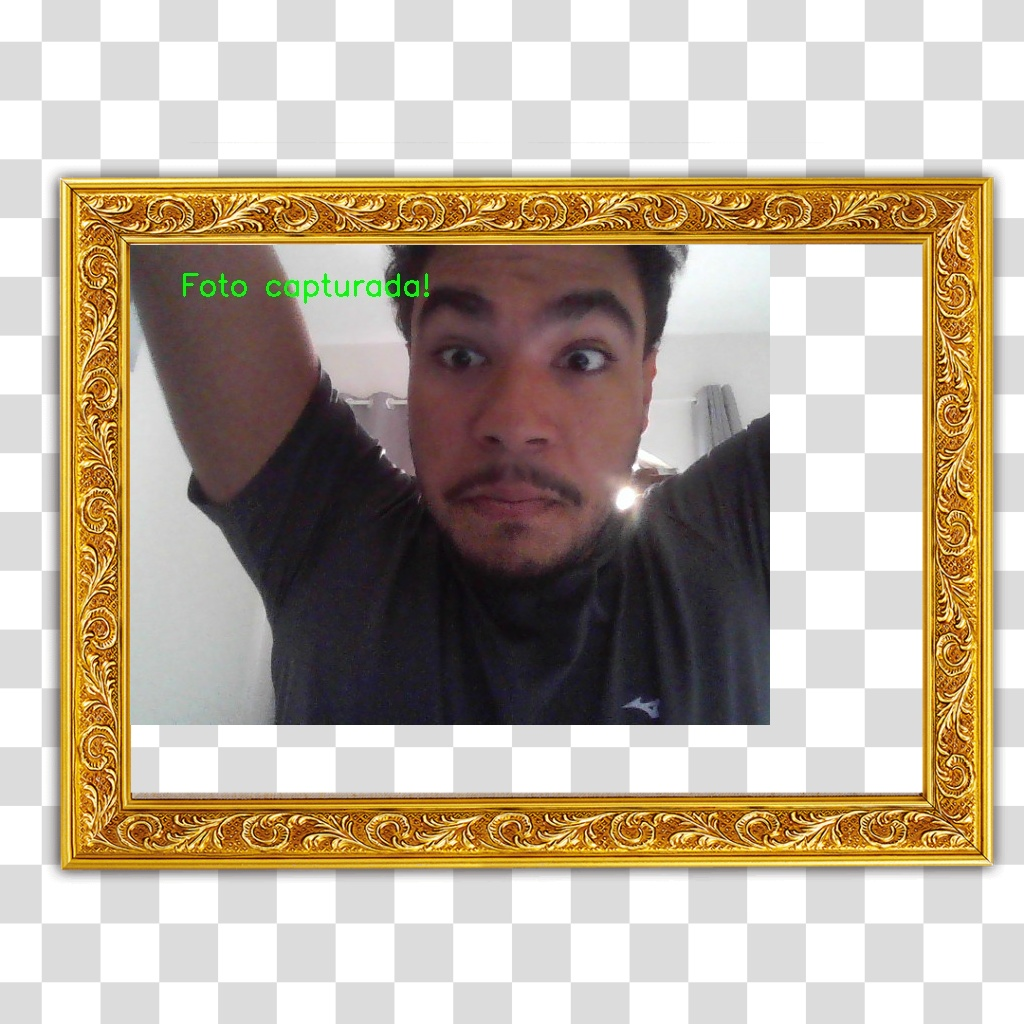
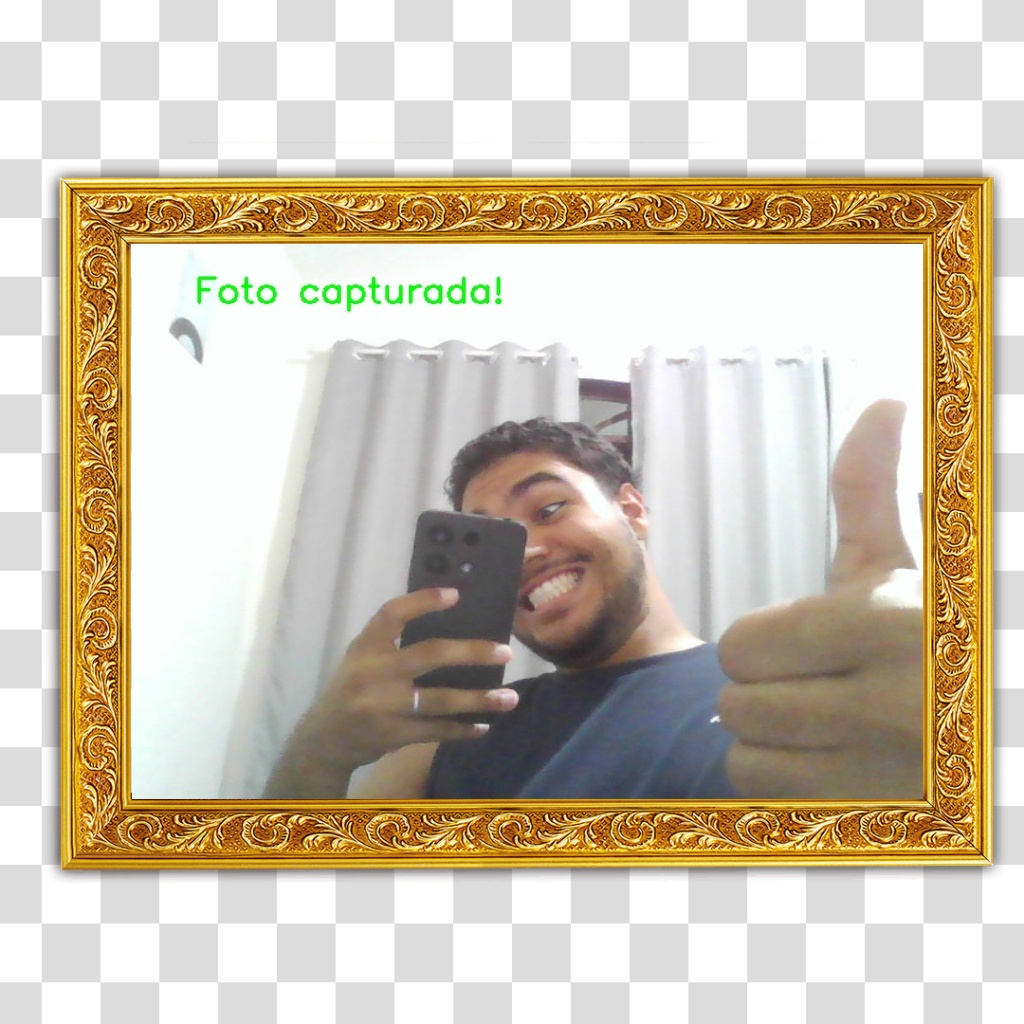
90%

diff --git a/final_project/pacote/moldura.py b/final_project/pacote/moldura.py
@@ -1,24 +1,20 @@
 import cv2
 import numpy as np
 
-def adicionar_moldura(imagem, moldura_path, output_path='foto_com_moldura.png'):
-    # Lê a moldura (com transparência caso PNG)
-    moldura = cv2.imread(moldura_path, cv2.IMREAD_UNCHANGED)
-    if moldura is None:
-        print("Não foi possível carregar a moldura.")
-        return
+def adicionar_moldura(redimensionada):
+    # Carrega a imagem de fundo (moldura) e a foto a ser inserida
+    fundo = cv2.imread('moldura.png')
 
-    # Redimensiona a moldura para o tamanho da imagem capturada
-    altura, largura = imagem.shape[:2]
-    moldura = cv2.resize(moldura, (largura, altura))
+    # Posição desejada (exemplo: x=130, y=245)
+    x, y = 132, 244
 
-    resultado = cv2.imread('moldura.png')
+    # Dimensões da foto redimensionada
+    h, w = redimensionada.shape[:2]
 
-    cv2.imwrite(output_path, resultado)
-    print(f"Foto com moldura salva como {output_path}")
+    # Insere a foto na posição (x, y) da moldura
+    fundo[y:y+h, x:x+w] = redimensionada
 
-    cv2.imshow('Foto com Moldura', resultado) # Exibe a imagem com moldura
+    cv2.imwrite('foto_salva.jpg', fundo)
+    cv2.imshow('Resultado', fundo)
     cv2.waitKey(0)
     cv2.destroyAllWindows()
-
-    return resultado

diff --git a/final_project/main.py b/final_project/main.py
@@ -7,16 +7,23 @@
 from pacote import camera
 from pacote import captura
 from pacote import moldura
+from pacote import redimensionar
 
 def main():
-
-    cap = camera.inicializar_camera() # Inicializa a câmera
+    cap = camera.inicializar_camera()  # Inicializa a câmera
     if cap:
-        imagem = captura.capturar_imagem(cap, 5, 'captura.jpg') # Captura uma imagem após 5 segundos
-        cap.release() # Libera a câmera após o uso
+        imagem = captura.capturar(cap, 5, 'captura.jpg')  # Captura uma imagem após 5 segundos
+        cap.release()  # Libera a câmera após o uso
 
-    if imagem is not None:
-        moldura.adicionar_moldura(imagem, 'moldura.png', output_path='foto_com_moldura.png')
+        if imagem is not None:
+            imagem_redimensionada = redimensionar.redimensionar(imagem)  # Redimensiona a imagem capturada
+
+            if imagem_redimensionada is not None:
+                moldura.adicionar_moldura(imagem_redimensionada)
+            else:
+                print("Erro ao redimensionar a imagem.")
+        else:
+            print("Erro ao capturar a imagem.")
 
 if __name__ == "__main__":
     main()

diff --git a/final_project/pacote/captura.py b/final_project/pacote/captura.py
@@ -1,7 +1,7 @@
 import cv2
 import time
 
-def capturar_imagem(cap, delay, filename='captura.jpg'):
+def capturar(cap, delay, filename):
     start_time = time.time()
     img_captured = False
     while True:
@@ -22,16 +22,13 @@ def capturar_imagem(cap, delay, filename='captura.jpg'):
             cv2.imwrite(filename, frame)
             img_captured = True
 
-        cv2.imshow('Webcam', frame)
-
-        imagem = cv2.imread(filename)
-        cv2.imshow('Imagem Capturada', imagem) # Exibe a imagem capturada
-
-        # Fecha a janela se a pessoa apertar ESC ou após capturar a foto
-        key = cv2.waitKey(1) & 0xFF
-        if key == 27:
             break
+
+        cv2.imshow('Webcam', frame)
+        cv2.waitKey(1)
+
+    captura = cv2.imread(filename)  # Lê a imagem capturada
 
     cv2.destroyAllWindows()
 
-    return imagem
+    return captura

diff --git a/final_project/teste3.py b/final_project/teste3.py
@@ -1,0 +1,18 @@
+import cv2
+
+# Carregue a foto original
+foto = cv2.imread('captura.jpg')
+
+# Defina o tamanho desejado (exemplo: 300x400 pixels)
+largura = 700
+altura = 400
+novo_tamanho = (largura, altura)
+
+# Redimensione a foto
+foto_redimensionada = cv2.resize(foto, novo_tamanho)
+
+# Exiba e/ou salve a imagem redimensionada
+cv2.imshow('Foto Redimensionada', foto_redimensionada)
+cv2.imwrite('foto_enquadrada.jpg', foto_redimensionada)
+cv2.waitKey(0)
+cv2.destroyAllWindows()

diff --git a/final_project/pacote/redimensionar.py b/final_project/pacote/redimensionar.py
@@ -1,0 +1,14 @@
+import cv2
+
+def redimensionar(foto):
+
+    # Defina o tamanho desejado (exemplo: 300x400 pixels)
+    largura = 791
+    altura = 555
+    novo_tamanho = (largura, altura)
+
+    # Redimensione a foto
+    foto_redimensionada = cv2.resize(foto, novo_tamanho)
+    cv2.imwrite('redimensionada.jpg', foto_redimensionada)
+
+    return foto_redimensionada

diff --git a/final_project/pacote/__init__.py b/final_project/pacote/__init__.py
@@ -6,3 +6,6 @@ __all__ = ['camera']
 
 from . import moldura
 __all__ = ['moldura']
+
+from . import redimensionar
+__all__ = ['redimensionar']
